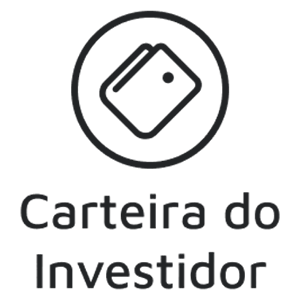
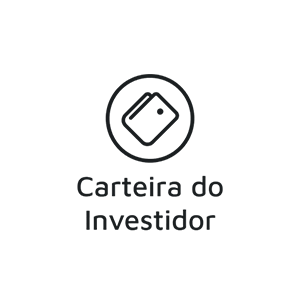
more animations

diff --git a/src/pages/Home.jsx b/src/pages/Home.jsx
@@ -13,6 +13,8 @@ import useWindowSize from '../hooks/useWindowSize';
 import { useEffect, useRef, useState } from 'react';
 import { motion, useTransform, useViewportScroll } from 'framer-motion';
 import { Monospace } from '../components/Monospace';
+import { Marcas } from '../components/Marcas';
+import { Mark } from '../components/Mark';
 
 export function Home(){
 
@@ -110,10 +112,11 @@ export function Home(){
                 spacing='10'
                 width='55%'
                 >
-                    <Monospace selectionColor='#52CC56'>Na minha visão — você pode discordar —, quando um cliente contrata um copywriter, ele espera receber algo persuasivo, impactante e, principalmente, algo novo. Afinal, a cada dia que passa a concorrência está maior e mais profissional. Tudo o que um empresário de respeito não quer é ter seu produto considerado irrelevante, “mais do mesmo”. No mercado atual, quando isso acontece podemos dizer que o produto já fracassou.
+                    <Monospace selectionColor='#52CC56'>Na minha visão — você pode discordar —, quando um cliente contrata um copywriter, ele espera receber algo persuasivo, impactante e, principalmente, algo novo. Afinal, <Mark mark='rgb(230, 255, 0)'>a cada dia que passa a concorrência está maior e mais profissional</Mark>.Tudo o que um empresário de respeito não quer é ter seu produto considerado irrelevante, “mais do mesmo”.
                     </Monospace>
+                    <Monospace>No mercado atual, quando isso acontece podemos dizer que o produto já fracassou.</Monospace>
                     <Monospace selectionColor='#4588E5'>
-                    No entanto, infelizmente, o que mais vemos por aí são cartas de venda e anúncios sendo  copiados a torto e a rodo. Fórmulas prontas, criatividade zero.</Monospace>
+                    No entanto, infelizmente, <Mark mark='rgb(230, 255, 0)'>o que mais vemos por aí são campanhas sendo copiadas a torto e a rodo</Mark>. Fórmulas prontas, criatividade zero.</Monospace>
                 </Stack>
 
                 {/* COMEÇO DA PARTE ESCURA */}
@@ -219,7 +222,7 @@ export function Home(){
                 spacing='8'
                 
                 >
-                    <Text _selection={{ color: '#52CC56', background: 'transparent'}} width='90%' textAlign='center' ml='2' fontFamily='monospace' fontSize='xl'>Qual é o melhor dia para conversarmos sobre seus planos de crescimento em vendas?</Text>
+                    <Mark mark='rgb(230, 255, 0)'>Qual é o melhor dia para conversarmos sobre seus planos de crescimento em vendas?</Mark>
 
                     <Stack
                     width='80%'
@@ -241,25 +244,8 @@ export function Home(){
                 spacing='12'
                 >
                     <Heading _selection={{ color: 'transparent', background: 'transparent', '-webkit-text-stroke': '2px #1976D2'}}  textAlign='center' size='2xl'>Algumas marcas com as quais já trabalhei</Heading>
-                    <Stack
-                    spacing='8'
-                    direction='row'
-                    width='100%'
-                    >
-                    <Box width='25%' >
-                    <Image src={carteirabw}/>
-                    </Box>
-                    <Box width='25%'>
-                    <Image src={cecllbw}/>
-                    </Box>
-                    <Box width='25%'>
-                    <Image src={portalbw}/>
-                    </Box>
-                    <Box width='25%'>
-                    <Image src={traderbw}/>
-                    </Box>
-                    </Stack>
-                    <Text _selection={{ color: '#4588E5', background: 'transparent'}} ml='2' textAlign='center' fontFamily='monospace' fontSize='lg'>Algumas das campanhas que escrevi já foram copiadas por empresas bilionárias. Outras pautaram o discurso de todo um mercado. Esse é o poder da originalidade.</Text>
+                    <Marcas/>
+                    <Text _selection={{ color: '#4588E5', background: 'transparent'}} ml='2' textAlign='center' fontFamily='monospace' fontSize='lg'>Algumas das campanhas que escrevi já foram copiadas por empresas bilionárias. Outras pautaram o discurso de todo um mercado. Esse é o poder da <Mark mark='rgb(230, 255, 0)'>originalidade</Mark>.</Text>
                 </Stack>
                 <Stack
                 width='65%'

diff --git a/src/components/Marcas.tsx b/src/components/Marcas.tsx
@@ -1,0 +1,44 @@
+import { Box, Image, Stack } from "@chakra-ui/react";
+import carteirabw from '../assets/carteira-bw.png'
+import carteira from '../assets/carteira.png'
+import cecllbw from '../assets/cecll-bw.png'
+import cecll from '../assets/cecll.png'
+import portalbw from '../assets/portal-bw.png'
+import portal from '../assets/portal.png'
+import traderbw from '../assets/trader-bw.png'
+import trader from '../assets/trader.png'
+import { MarcaItem } from "./MarcaItem";
+
+export function Marcas(){
+    const marcas = [
+        {
+            image: carteira,
+            imageBW: carteirabw
+        },
+        {
+            image: cecll,
+            imageBW: cecllbw
+        },
+        {
+            image: portal,
+            imageBW: portalbw
+        },
+        {
+            image: trader,
+            imageBW: traderbw
+        },
+
+    ]
+    return(
+        <Stack
+        spacing='8'
+        direction='row'
+        width='100%'
+        >
+       {marcas.map(marca =>{
+           return <MarcaItem image={marca.image} imageBW={marca.imageBW}/>
+       })}
+        </Stack>
+    )
+
+}

diff --git a/src/components/MarcaItem.tsx b/src/components/MarcaItem.tsx
@@ -1,0 +1,24 @@
+import { Box, Image } from "@chakra-ui/react";
+import { motion } from "framer-motion";
+import { useState } from "react";
+
+type MarcaItemProps = {
+    image: string,
+    imageBW: string
+}
+
+export function MarcaItem(props: MarcaItemProps){
+    const MotionBox = motion(Box)
+    const [hover, setHover] = useState(false);
+
+    return(
+        <MotionBox width='25%' whileHover={{scale: 1.1}} onHoverStart={()=>{setHover(true)}} onHoverEnd={()=>{setHover(false)}}>
+        {
+            !hover ? 
+            <Image src={props.imageBW}/>
+            :
+            <Image src={props.image}/>
+        }
+        </MotionBox>
+    );
+}

diff --git a/src/components/Mark.tsx b/src/components/Mark.tsx
@@ -1,0 +1,19 @@
+import { Flex, Text } from "@chakra-ui/react";
+import { motion, useMotionValue, useTransform } from "framer-motion";
+import { ReactNode } from "react";
+type MarkProps = {
+    children: ReactNode
+    mark: string
+}
+
+export function Mark(props: MarkProps){
+    const MotionText = motion(Text);
+    return(
+        <motion.span
+        initial={{background: '#F0F3F7', color:'#222426'}}
+        whileInView={{background: `${props.mark}`}}
+        transition={{duration: 0.5, delay: 0.5}}>
+        {props.children}
+        </motion.span>
+    )
+}

diff --git a/src/a-fazer.md b/src/a-fazer.md
@@ -1,12 +1,12 @@
 A FAZER:
 
     <!-- - Parte dos dias da semana -->
-    - Animação do modo escuro
-    - Animações nas logos
+    <!-- - Animação do modo escuro -->
+    <!-- - Animações nas logos -->
     <!-- - Animações na hora de selecionar -->
-    - Animações dos 'marca-textos'
+    <!-- - Animações dos 'marca-textos' -->
     - Repensar parte da apresentação (talvez animação descer o texto)
-    - Revisar respiro dos textoso
+    - Revisar respiro dos textos
     - alterar logo para M.C
     - links redes sociais
     - links whatsapp contato
